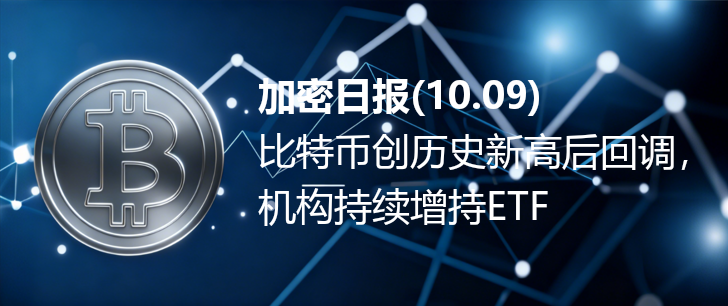
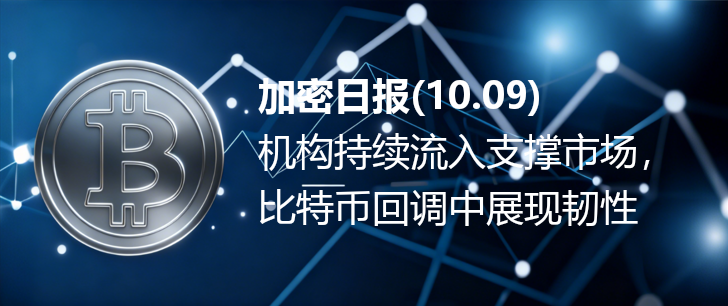
daily_news

Changed region(s): [[0.3324, 0.4412, 0.967, 0.5588], [0.3324, 0.6176, 0.8764, 0.7353]]

diff --git a/files/latest_summary.md b/files/latest_summary.md
@@ -1,50 +1,65 @@
-### 一、比特币价格波动及市场分析
+### 一、比特币价格动态与市场分析
 **总结**：
-1. 比特币在创历史新高（126,272美元）后出现回调，短期下跌超2%，徘徊在122,000-122,500美元区间，市场出现获利了结。
-2. 尽管比特币价格回调，但机构对其兴趣未消退，美国现货比特币ETF上周净流入逾30亿美元，总规模突破600亿美元，本周再获20亿美元资金注入。
-3. 比特币主导率回升，市场焦点重新回归主流资产，期货未平仓合约（OI）略有下降，短期技术指标（MACD、RSI）显示潜在反弹信号。
-4. 其他主流加密货币如以太坊（ETH）、瑞波币（XRP）同步回调，以太坊在4,400美元短期支撑位保持稳定，XRP受清算影响多头承压。
+1. 比特币在创下历史新高后出现回调，从126,272美元回落至122,000-122,500美元区间，短期受获利了结和巨鲸抛售影响，技术指标显示短期看涨信号（如MACD、RSI维持买入区间）。
+2. 山寨币表现分化，BNB逆势上涨近3%，巩固市值第三位置，过去一周涨幅超30%；以太坊受回调影响下跌4.2%至约4,500美元，XRP下跌3.5%至2.87美元，瑞波币面临清算压力。
+3. 市场整体从高位回落，加密经济总市值从4.4万亿美元降至4.28万亿美元，机构分析师认为短期比特币基本面仍向好，若美联储释放降息信号，四季度或拓展新价格空间。
 **参考**：
-- [比特币在创下历史新高后下跌；BNB稳固第三名位置](https://news.bitcoin.com/zh/bi-te-bi-zai-chuang-xia-li-shi-xin-gao-hou-xia-die-bnb-wen-gu-di-san-ming-wei-zhi/)
-- [比特币价格下跌。加密货币反弹面临新威胁。——Barrons.com](https://news.futunn.com/post/63009558/bitcoin-price-falls-there-s-a-new-threat-to-the)
-- [今日加密货币：比特币、以太坊、瑞波币在短暂回调后保持稳定](https://www.mitrade.com/cn/insights/news/live-news/article-3-1180037-20251008)
-- [Matrixport：比特币主导率回升，市场焦点再度聚向主流资产](https://cn.cointelegraph.com/flash-news/14534738)
+- [比特币在创下历史新高后下跌；BNB稳固第三名位置 - Bitcoin.com News](https://news.bitcoin.com/zh/bi-te-bi-zai-chuang-xia-li-shi-xin-gao-hou-xia-die-bnb-wen-gu-di-san-ming-wei-zhi/)
+- [比特币价格下跌。加密货币反弹面临新威胁。——Barrons.com - 富途资讯](https://news.futunn.com/post/63009558/bitcoin-price-falls-there-s-a-new-threat-to-the)
+- [今日加密货币：比特币、以太坊、瑞波币在短暂回调后保持稳定 - Mitrade](https://www.mitrade.com/cn/insights/news/live-news/article-3-1180037-20251008)
+- [比特币信号显示出潜在的反弹，尽管期货未平仓合约略有下降。](https://editorial.fxsstatic.com/miscelaneous/Screenshot%202025-10-08%20at%2011-1759919824997-1759919824998.28.12.png)
 
+---
 
-### 二、比特币ETF资金流入及机构持仓动态
+### 二、比特币ETF与机构资金流入
 **总结**：
-1. 10月8日，美国10只比特币ETF净流入7743枚BTC，其中贝莱德流入7401枚BTC，目前贝莱德持有798,747枚BTC。
-2. 尽管现货比特币价格下跌，单日ETF资金流入仍达8.76亿美元，美国现货比特币ETF累计资金流入突破600亿美元，净资产平均为308.6亿美元。
-3. 以太坊ETF连续第七天出现净流入，九只以太坊ETF累计资金流入达150亿美元，反映机构对以太坊相关投资产品的持续关注。
+1. 尽管现货比特币价格下跌，美国现货比特币ETF单日资金流入达8.76亿美元，10只比特币ETF净流入7743枚BTC，贝莱德流入7401枚BTC，当前持有798747枚BTC。
+2. 以太坊ETF同步获资金支持，9只以太坊ETF净流入100855枚ETH，贝莱德流入97695枚ETH，当前持有4,050,518枚ETH，连续第七天出现净流入。
+3. 机构对加密货币的持续兴趣推动ETF资金流入，市场认为这将为比特币提供支撑，尤其在美联储降息预期下，资金对风险资产的配置意愿增强。
 **参考**：
-- [今日美国比特币和以太坊ETF净流入数据揭示贝莱德持仓情况](https://www.binance.com/cn/square/post/30744074977162)
-- [尽管现货价格下跌，比特币（BTC）ETF单日资金流入达到8.76亿美元](https://www.coindesk.com/zh/markets/2025/10/08/bitcoin-etfs-see-usd876m-in-one-day-inflows-despite-drop-in-spot-prices)
-- [美国比特币和以太坊ETF净流入数据揭示贝莱德持仓情况](https://www.binance.com/cn/square/post/30744074977162)
+- [今日美国比特币 ETF 净流入7743 枚 BTC，以太坊 ETF 净流入100855 枚 ETH | 比推](https://www.bitpush.news/articles/7576959)
+- [美国比特币和以太坊ETF净流入数据揭示贝莱德持仓情况 - Binance](https://www.binance.com/cn/square/post/30744074977162)
+- [尽管现货价格下跌，比特币（BTC）ETF单日资金流入达到8.76亿美元 - CoinDesk](https://www.coindesk.com/zh/markets/2025/10/08/bitcoin-etfs-see-usd876m-in-one-day-inflows-despite-drop-in-spot-prices)
 
+---
 
-### 三、机构及巨鲸交易动态
+### 三、比特币巨鲸交易与机构持仓
 **总结**：
-1. 某远古巨鲸地址在沉寂三周后重现市场，过去9小时通过HyperLiquid平台以均价121,291美元抛售3,000枚BTC，兑换3.639亿美元USDC，当前仍持有46,765枚BTC（约57.3亿美元）。
-2. 日本上市公司Remixpoint（3825.T）增持2.66枚比特币，总持仓升至1,371.46枚，反映机构对加密货币的长期配置意愿。
+1. 某比特币远古巨鲸在沉寂三周后抛售3000枚BTC，通过HyperLiquid平台以均价121,291美元兑换3.639亿美元USDC，当前仍持有46,765枚BTC（约57.3亿美元）。
+2. 日本上市公司Remixpoint增持2.66枚比特币，总持仓达1371.46枚，显示企业对加密货币的长期配置意愿。
+3. 市场认为巨鲸交易和机构增持反映了大资金对市场的短期操作，机构持仓变化（如贝莱德）对市场情绪有重要影响。
 **参考**：
 - [某比特币远古巨鲸过去9小时抛售3000枚BTC](https://cn.cointelegraph.com/flash-news/14538570)
-- [日本上市公司Remixpoint增持2.66枚比特币，总持仓升至1371.46枚](https://news.qq.com/rain/a/20251008A04CT000)
+- [日本上市公司Remixpoint增持2.66枚比特币，总持仓升至1371.46枚 - 腾讯网](https://news.qq.com/rain/a/20251008A04CT000)
 
+---
 
-### 四、宏观因素对加密货币市场的影响
+### 四、比特币与黄金等避险资产的比较
 **总结**：
-1. 黄金突破4000美元大关，比特币同步创历史新高（126,199美元），两者均受美元走弱、美联储降息预期及避险需求推动，被视为“货币贬值交易”的核心资产。
-2. 市场担忧美国财政压力、预算赤字扩大及政府停摆，促使资金从美元计价资产转向黄金、比特币等另类避险资产。
-3. 美联储降息预期推升长期通胀预期，刺激风险资产上涨，同时黄金与比特币的涨势反映市场对美元信心的削弱。
+1. 黄金创历史新高突破4000美元，现货黄金逼近4030美元，期货市场年内涨幅52%，创2008年以来次高；比特币同步创历史新高126,272美元，今年涨幅超30%，两者均被视为对冲美元贬值和通胀的工具。
+2. 机构对黄金和比特币的配置需求上升，9月美国实物黄金ETF流入创纪录330亿美元，贝莱德调整模型投资组合增持黄金；比特币ETF资金持续流入，市场称其为“数字黄金”。
+3. 分析师认为短期比特币基本面良好，若美联储释放降息信号，四季度有望拓展新价格空间，但需警惕美元反弹或监管政策变化带来的风险。
 **参考**：
+- [黄金创纪录涨势碾压比特币但分析师仍看好后市 - 新浪财经](https://finance.sina.com.cn/stock/bxjj/2025-10-08/doc-infteyfc0167583.shtml)
 - [美元替代潮来袭！黄金、比特币齐创新高，背后是同一场豪赌](https://news.futunn.com/post/62995363/the-wave-of-alternatives-to-the-us-dollar-is-here)
-- [黄金创纪录涨势碾压比特币但分析师仍看好后市](https://finance.sina.com.cn/stock/bxjj/2025-10-08/doc-infteyfc0167583.shtml)
 
+---
 
-### 五、其他加密货币市场表现
+### 五、山寨币表现与市场分化
 **总结**：
-1. BNB在比特币回调时逆势上涨，过去七天飙升30%，升至市值第三大加密货币（1827.6亿美元），超越XRP和USDT。
-2. 恒星币（XLM）因机构兴趣推动出现显著反弹，市场复苏动能增强。
+1. BNB表现突出，过去一周上涨30%，市值超越XRP和USDT，升至第三位，交易价格接近1320美元，24小时涨幅近3%。
+2. 以太坊受回调影响，从接近4800美元回落至约4500美元，24小时下跌4.2%，但机构通过ETF持续流入，美国9只以太坊ETF累计资金流入达150亿美元。
+3. 市场焦点回归主流资产，比特币主导率回升，多数山寨币跟涨空间有限，XRP面临清算压力，多头持仓损失显著。
 **参考**：
-- [随着机构兴趣推动复苏动能，恒星币（XLM）大幅反弹](https://www.coindesk.com/zh/markets/2025/10/08/stellar-xlm-rebounds-sharply-as-institutional-interest-fuels-recovery-momentum)
-- [比特币在创下历史新高后下跌；BNB稳固第三名位置](https://news.bitcoin.com/zh/bi-te-bi-zai-chuang-xia-li-shi-xin-gao-hou-xia-die-bnb-wen-gu-di-san-ming-wei-zhi/)
+- [比特币在创下历史新高后下跌；BNB稳固第三名位置 - Bitcoin.com News](https://news.bitcoin.com/zh/bi-te-bi-zai-chuang-xia-li-shi-xin-gao-hou-xia-die-bnb-wen-gu-di-san-ming-wei-zhi/)
+- [Matrixport：比特币主导率回升，市场焦点再度聚向主流资产](https://cn.cointelegraph.com/flash-news/14534738)
+
+---
+
+### 六、比特币长期周期与机构需求讨论
+**总结**：
+1. K33研究指出，比特币传统四年周期模式已过时，当前受机构采用、现货ETF整合和宏观政策变化影响，进入新的结构性阶段，黑石等机构持有大量比特币（约1000亿美元）。
+2. 市场认为2025年机构参与度显著提升，与2017年、2021年牛市不同，当前市场由机构主导，而非散户投机，支撑比特币长期价值。
+3. 尽管短期存在回调风险，但分析师看好比特币在年末最后一个季度突破历史高点，机构资金持续流入和宏观宽松预期为主要推动力。
+**参考**：
+- [K33研究：比特币四年周期已死，因机构需求上升 - Mitrade](https://www.mitrade.com/cn/insights/news/live-news/article-3-1180621-20251009)

diff --git a/files/latest_summary_cleaned.md b/files/latest_summary_cleaned.md
@@ -1,19 +1,29 @@
-### 一、比特币价格波动及市场分析
-1. 比特币在创历史新高（126,272美元）后出现回调，短期下跌超2%，徘徊在122,000-122,500美元区间，市场出现获利了结。
-2. 尽管比特币价格回调，但机构对其兴趣未消退，美国现货比特币ETF上周净流入逾30亿美元，总规模突破600亿美元，本周再获20亿美元资金注入。
-3. 比特币主导率回升，市场焦点重新回归主流资产，期货未平仓合约（OI）略有下降，短期技术指标（MACD、RSI）显示潜在反弹信号。
-4. 其他主流加密货币如以太坊（ETH）、瑞波币（XRP）同步回调，以太坊在4,400美元短期支撑位保持稳定，XRP受清算影响多头承压。
-### 二、比特币ETF资金流入及机构持仓动态
-1. 10月8日，美国10只比特币ETF净流入7743枚BTC，其中贝莱德流入7401枚BTC，目前贝莱德持有798,747枚BTC。
-2. 尽管现货比特币价格下跌，单日ETF资金流入仍达8.76亿美元，美国现货比特币ETF累计资金流入突破600亿美元，净资产平均为308.6亿美元。
-3. 以太坊ETF连续第七天出现净流入，九只以太坊ETF累计资金流入达150亿美元，反映机构对以太坊相关投资产品的持续关注。
-### 三、机构及巨鲸交易动态
-1. 某远古巨鲸地址在沉寂三周后重现市场，过去9小时通过HyperLiquid平台以均价121,291美元抛售3,000枚BTC，兑换3.639亿美元USDC，当前仍持有46,765枚BTC（约57.3亿美元）。
-2. 日本上市公司Remixpoint（3825.T）增持2.66枚比特币，总持仓升至1,371.46枚，反映机构对加密货币的长期配置意愿。
-### 四、宏观因素对加密货币市场的影响
-1. 黄金突破4000美元大关，比特币同步创历史新高（126,199美元），两者均受美元走弱、美联储降息预期及避险需求推动，被视为“货币贬值交易”的核心资产。
-2. 市场担忧美国财政压力、预算赤字扩大及政府停摆，促使资金从美元计价资产转向黄金、比特币等另类避险资产。
-3. 美联储降息预期推升长期通胀预期，刺激风险资产上涨，同时黄金与比特币的涨势反映市场对美元信心的削弱。
-### 五、其他加密货币市场表现
-1. BNB在比特币回调时逆势上涨，过去七天飙升30%，升至市值第三大加密货币（1827.6亿美元），超越XRP和USDT。
-2. 恒星币（XLM）因机构兴趣推动出现显著反弹，市场复苏动能增强。
+### 一、比特币价格动态与市场分析
+1. 比特币在创下历史新高后出现回调，从126,272美元回落至122,000-122,500美元区间，短期受获利了结和巨鲸抛售影响，技术指标显示短期看涨信号（如MACD、RSI维持买入区间）。
+2. 山寨币表现分化，BNB逆势上涨近3%，巩固市值第三位置，过去一周涨幅超30%；以太坊受回调影响下跌4.2%至约4,500美元，XRP下跌3.5%至2.87美元，瑞波币面临清算压力。
+3. 市场整体从高位回落，加密经济总市值从4.4万亿美元降至4.28万亿美元，机构分析师认为短期比特币基本面仍向好，若美联储释放降息信号，四季度或拓展新价格空间。
+
+### 二、比特币ETF与机构资金流入
+1. 尽管现货比特币价格下跌，美国现货比特币ETF单日资金流入达8.76亿美元，10只比特币ETF净流入7743枚BTC，贝莱德流入7401枚BTC，当前持有798747枚BTC。
+2. 以太坊ETF同步获资金支持，9只以太坊ETF净流入100855枚ETH，贝莱德流入97695枚ETH，当前持有4,050,518枚ETH，连续第七天出现净流入。
+3. 机构对加密货币的持续兴趣推动ETF资金流入，市场认为这将为比特币提供支撑，尤其在美联储降息预期下，资金对风险资产的配置意愿增强。
+
+### 三、比特币巨鲸交易与机构持仓
+1. 某比特币远古巨鲸在沉寂三周后抛售3000枚BTC，通过HyperLiquid平台以均价121,291美元兑换3.639亿美元USDC，当前仍持有46,765枚BTC（约57.3亿美元）。
+2. 日本上市公司Remixpoint增持2.66枚比特币，总持仓达1371.46枚，显示企业对加密货币的长期配置意愿。
+3. 市场认为巨鲸交易和机构增持反映了大资金对市场的短期操作，机构持仓变化（如贝莱德）对市场情绪有重要影响。
+
+### 四、比特币与黄金等避险资产的比较
+1. 黄金创历史新高突破4000美元，现货黄金逼近4030美元，期货市场年内涨幅52%，创2008年以来次高；比特币同步创历史新高126,272美元，今年涨幅超30%，两者均被视为对冲美元贬值和通胀的工具。
+2. 机构对黄金和比特币的配置需求上升，9月美国实物黄金ETF流入创纪录330亿美元，贝莱德调整模型投资组合增持黄金；比特币ETF资金持续流入，市场称其为“数字黄金”。
+3. 分析师认为短期比特币基本面良好，若美联储释放降息信号，四季度有望拓展新价格空间，但需警惕美元反弹或监管政策变化带来的风险。
+
+### 五、山寨币表现与市场分化
+1. BNB表现突出，过去一周上涨30%，市值超越XRP和USDT，升至第三位，交易价格接近1320美元，24小时涨幅近3%。
+2. 以太坊受回调影响，从接近4800美元回落至约4500美元，24小时下跌4.2%，但机构通过ETF持续流入，美国9只以太坊ETF累计资金流入达150亿美元。
+3. 市场焦点回归主流资产，比特币主导率回升，多数山寨币跟涨空间有限，XRP面临清算压力，多头持仓损失显著。
+
+### 六、比特币长期周期与机构需求讨论
+1. K33研究指出，比特币传统四年周期模式已过时，当前受机构采用、现货ETF整合和宏观政策变化影响，进入新的结构性阶段，黑石等机构持有大量比特币（约1000亿美元）。
+2. 市场认为2025年机构参与度显著提升，与2017年、2021年牛市不同，当前市场由机构主导，而非散户投机，支撑比特币长期价值。
+3. 尽管短期存在回调风险，但分析师看好比特币在年末最后一个季度突破历史高点，机构资金持续流入和宏观宽松预期为主要推动力。
